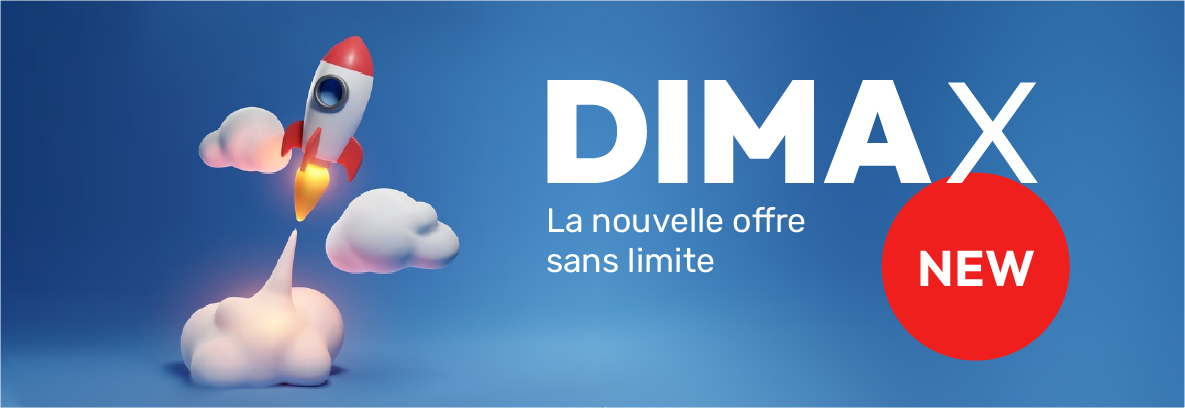
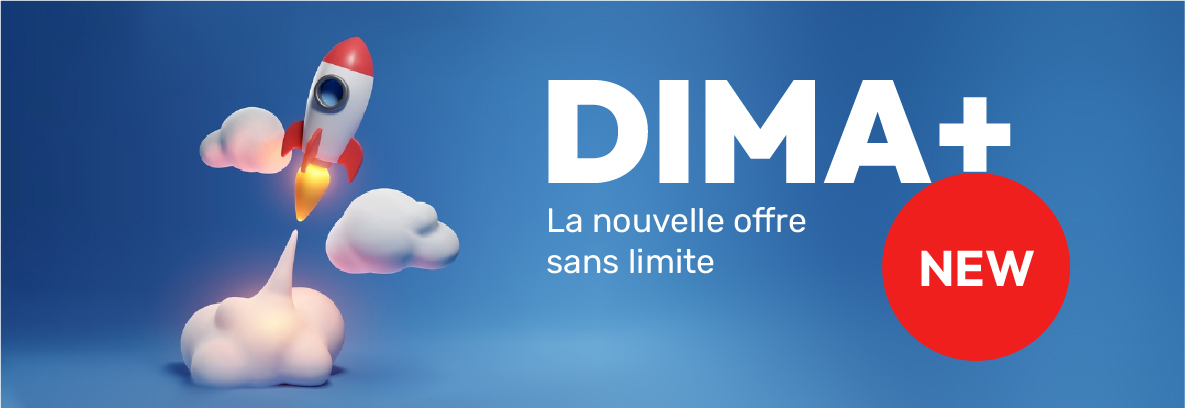
terms et conditions updated

diff --git a/dimax-ar.html b/dimax-ar.html
@@ -64,8 +64,8 @@
     <div class="custom-modal-popup relative">
         <!--        <button class="close text" onclick="closeModal()"><img src="images/carousel-assets/close.png" alt="close"/>-->
         <!--        </button>-->
-        <h2 class="text-center text-outfit text-red">تم تفعيل DIMA X</h2>
-        <p class="text-center">ستمنحك إعادة الشحن القادمة بمبلغ 2000 دج فوائد DIMA X.
+        <h2 class="text-center text-outfit text-red">تم تفعيل DIMA +</h2>
+        <p class="text-center">ستمنحك إعادة الشحن القادمة بمبلغ 2000 دج فوائد DIMA +.
         </p>
         <a href="./index-ar.html" class="red-btn text-outfit border-round fs-20" >موافق</a>
     </div>
@@ -554,7 +554,7 @@
                                             target="_blank"
                                             class="text-red text-underline">شروط وأحكام العقد</a></label>
                                 </div>
-                                <button  id='migrate-btn' class="red-btn text-outfit border-round fs-20" disabled="" onclick="document.getElementById('custom-modal').classList.remove('modal-hidden');">التغيير إلى DIMA X</button>
+                                <button  id='migrate-btn' class="red-btn text-outfit border-round fs-20" disabled="" onclick="document.getElementById('custom-modal').classList.remove('modal-hidden');">التغيير إلى DIMA +</button>
                                 <a href="./index-ar.html" class="text-center  text-red border-round fs-20"><b>رجوع</b></a>
                             </div>
                         </div>

diff --git a/dimax.html b/dimax.html
@@ -64,7 +64,7 @@
     <div class="custom-modal-popup relative">
 <!--        <button class="close text" onclick="closeModal()"><img src="images/carousel-assets/close.png" alt="close"/>-->
 <!--        </button>-->
-        <h2 class="text-center text-outfit text-red">DimaX activée !</h2>
+        <h2 class="text-center text-outfit text-red">Dima+ activée !</h2>
         <p class="text-center">
             Votre prochain rechargement de 2000 DA vous donnera les avantages de Dimax.
         </p>
@@ -550,7 +550,7 @@
                                             target="_blank"
                                             class="text-red text-underline">les termes et conditions du contrat</a></label>
                                 </div>
-                                <button  id='migrate-btn' class="red-btn text-outfit border-round fs-20" disabled="" onclick="document.getElementById('custom-modal').classList.remove('modal-hidden');">Migrer vers DIMA X</button>
+                                <button  id='migrate-btn' class="red-btn text-outfit border-round fs-20" disabled="" onclick="document.getElementById('custom-modal').classList.remove('modal-hidden');">Migrer vers DIMA +</button>
                                 <a href="./index.html" class="text-center  text-red border-round fs-20"><b>Retour</b></a>
                             </div>
                         </div>

diff --git a/index-ar.html b/index-ar.html
@@ -144,7 +144,7 @@
                 <source srcset="images/dimax/main-banner-v1-mobile-ar.jpg" media="(max-width: 992px)">
                 <img class="img-contain" src="images/dimax/main-banner-v1-desktop-ar.jpg" alt="" style="width: 100%" >
             </picture>
-            <a href="./dimax-ar.html" class="red-btn text-outfit border-round fs-20 ">التغيير إلى DIMA X </a>
+            <a href="./dimax-ar.html" class="red-btn text-outfit border-round fs-20 ">التغيير إلى DIMA + </a>
         </section>
         <!-- md-my-account -->
         <section class="md-s md-my-account clearfix">

diff --git a/index.html b/index.html
@@ -142,7 +142,7 @@
                 <source srcset="images/dimax/main-banner-v1-mobile-fr.jpg" media="(max-width: 992px)">
                 <img class="img-contain" src="images/dimax/main-banner-v1-desktop-fr.jpg" alt="" style="width: 100%">
             </picture>
-            <a href="./dimax.html" class="red-btn text-outfit border-round fs-20">Migrer vers DIMA X</a>
+            <a href="./dimax.html" class="red-btn text-outfit border-round fs-20">Migrer vers DIMA +</a>
         </section>
 
         <!-- md-my-account -->
